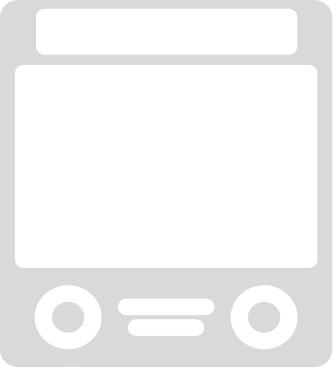
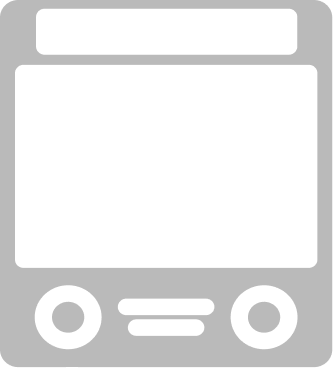
Hoàn thành trang bán v chưa hóa xuat hoa dơn va ve

diff --git a/src/main/resources/css/BanVe_GUI_Items/Cho_BanVe.css b/src/main/resources/css/BanVe_GUI_Items/Cho_BanVe.css
@@ -1,34 +1,28 @@
 .choDaBan{
     -fx-background-color: #FA4032;
-    -fx-text-fill: #fff;
 }
 
 .choDaDat{
     -fx-background-color: #FAB12F;
-    -fx-text-fill: #fff;
 }
-
 
 .choDanhChoChanDaiHon{
     -fx-background-color: #698AFB;
-    -fx-text-fill: #fff;
 }
 
 .choTrong{
-    -fx-background-color: #D9D9D9;
-    -fx-text-fill: #000;
+    -fx-background-color: #A6AEBF;
 }
 
 .choDangChon{
     -fx-background-color: #008906;
-    -fx-text-fill: #fff;
 }
 
 .choDaThemVaoGioVe{
     -fx-background-color: #851DE0;
-    -fx-text-fill: #fff;
 }
 
+/*
 .cho .jfx-button{
     -fx-alignment: center;
     -fx-font-weight: 700;
@@ -38,3 +32,4 @@
     -fx-pref-width: 40;
     -fx-pref-height: 40;
 }
+*/

diff --git a/target/classes/css/BanVe_GUI.css b/target/classes/css/BanVe_GUI.css
@@ -49,12 +49,6 @@
     -fx-background-color: #e8e8e8;
 }
 
-.danhSachCho{
-    -fx-border-color: #000;
-    -fx-border-radius: 5px;
-    -fx-border-width: 0.5px;
-
-}
 
 .buttonOption{
     -fx-background-color: #15B392;

diff --git a/src/main/java/GUI/controllers/BanVe_GUI_Items/Cho_BanVe_Controller.java b/src/main/java/GUI/controllers/BanVe_GUI_Items/Cho_BanVe_Controller.java
@@ -7,7 +7,9 @@ import com.jfoenix.controls.JFXButton;
 import javafx.event.ActionEvent;
 import javafx.fxml.FXML;
 import javafx.fxml.Initializable;
+import javafx.scene.control.Label;
 import javafx.scene.control.Tooltip;
+import javafx.scene.layout.AnchorPane;
 import javafx.util.Duration;
 import utils.CurrencyFormat;
 
@@ -16,7 +18,22 @@ import java.util.ResourceBundle;
 
 public class Cho_BanVe_Controller implements Initializable {
     @FXML
+    private AnchorPane anpTrangThaiCho;
+
+    @FXML
     private JFXButton btnCho;
+
+    @FXML
+    private Label lblGiaCho;
+
+    @FXML
+    private Label lblLoaiCho;
+
+    @FXML
+    private Label lblSoCho;
+
+    @FXML
+    private Label lblTrangThaiCho;
 
     private Cho cho;
     private BanVe_GUI_Controller banVe_GUI_controller;
@@ -31,8 +48,6 @@ public class Cho_BanVe_Controller implements Initializable {
         this.dangChon = dangChon;
     }
 
-    private Tooltip tooltip;
-    private String giaCho;
 
     public boolean isDaThemVaoGio() {
         return daThemVaoGio;
@@ -82,57 +97,54 @@ public class Cho_BanVe_Controller implements Initializable {
     }
 
     public void khoiTao(double doDaiChang){
-        btnCho.getStylesheets().add(getClass().getResource("/css/BanVe_GUI_Items/Cho_BanVe.css").toExternalForm());
-        btnCho.setText(String.valueOf(cho.getSoCho()));
+        anpTrangThaiCho.getStylesheets().add(getClass().getResource("/css/BanVe_GUI_Items/Cho_BanVe.css").toExternalForm());
+        lblSoCho.setText(String.valueOf(cho.getSoCho()));
         chuyenMauMacDinh();
-        tooltip = new Tooltip();
         cho.setGiaCho(cho.tinhGiaCho(doDaiChang));
+        lblGiaCho.setText(CurrencyFormat.currencyFormat(cho.getGiaCho()));
+        lblLoaiCho.setText(cho.getLoaiCho().getTenLoaiCho());
         capNhatTrangThai();
-        btnCho.setTooltip(tooltip);
-        tooltip.setShowDelay(Duration.millis(0)); // Hiển thị ngay lập tức khi hover
-        tooltip.setHideDelay(Duration.millis(0));
     }
 
     public void chuyenMauMacDinh(){
         switch (cho.getTrangThaiCho()){
             case DABAN -> {
-                btnCho.getStyleClass().clear();
-                btnCho.getStyleClass().add("choDaBan");
+                anpTrangThaiCho.getStyleClass().clear();
+                anpTrangThaiCho.getStyleClass().add("choDaBan");
             }
             case DADAT -> {
-                btnCho.getStyleClass().clear();
-                btnCho.getStyleClass().add("choDaDat");
+                anpTrangThaiCho.getStyleClass().clear();
+                anpTrangThaiCho.getStyleClass().add("choDaDat");
             }
             case DANHCHOCHANGDAIHON -> {
-                btnCho.getStyleClass().clear();
-                btnCho.getStyleClass().add("choDanhChoChanDaiHon");
+                anpTrangThaiCho.getStyleClass().clear();
+                anpTrangThaiCho.getStyleClass().add("choDanhChoChanDaiHon");
             }
             case CONTRONG -> {
-                btnCho.getStyleClass().clear();
-                btnCho.getStyleClass().add("choTrong");
+                anpTrangThaiCho.getStyleClass().clear();
+                anpTrangThaiCho.getStyleClass().add("choTrong");
             }
         }
     }
 
     public void chuyenMauDangChon(){
-        btnCho.getStyleClass().clear();
-        btnCho.getStyleClass().add("choDangChon");
+        anpTrangThaiCho.getStyleClass().clear();
+        anpTrangThaiCho.getStyleClass().add("choDangChon");
         dangChon = true;
         capNhatTrangThai();
     }
 
     public void chuyenMauDaThemVaoGioVe(){
-        btnCho.getStyleClass().clear();
-        btnCho.getStyleClass().add("choDaThemVaoGioVe");
+        anpTrangThaiCho.getStyleClass().clear();
+        anpTrangThaiCho.getStyleClass().add("choDaThemVaoGioVe");
         daThemVaoGio = true;
         capNhatTrangThai();
     }
 
     public void capNhatTrangThai(){
         String trangThaiCho = "";
-        giaCho = CurrencyFormat.currencyFormat(cho.getGiaCho());
         if(daThemVaoGio){
-            trangThaiCho = "Đã thêm vào giỏ vé";
+            trangThaiCho = "Đã thêm vào giỏ";
         }else if(dangChon){
             trangThaiCho = "Đang chọn";
         }else{
@@ -151,14 +163,6 @@ public class Cho_BanVe_Controller implements Initializable {
                 }
             }
         }
-
-        tooltip.setStyle(
-                "-fx-font-size: 16px; " +
-                "-fx-background-color: white; " +
-                "-fx-font-weight: normal; " +
-                "-fx-text-fill: black; "
-        );
-
-        tooltip.setText(cho.getLoaiCho().getTenLoaiCho() + "\n" + trangThaiCho + "\n" + giaCho);
+        lblTrangThaiCho.setText(trangThaiCho);
     }
 }

diff --git a/src/main/java/GUI/controllers/BanVe_GUI_Controller.java b/src/main/java/GUI/controllers/BanVe_GUI_Controller.java
@@ -73,6 +73,8 @@ public class BanVe_GUI_Controller implements Initializable {
     @FXML
     private ScrollPane scpDanhSachToaTau;
 
+    @FXML
+    private ScrollPane scpDanhSachCho;
 
     @FXML
     private TextField txtTongTien;
@@ -394,6 +396,13 @@ public class BanVe_GUI_Controller implements Initializable {
             scpDanhSachToaTau.setHvalue(scpDanhSachToaTau.getHvalue() - deltaX * 10 / scpDanhSachToaTau.getContent().getBoundsInLocal().getWidth());
             event.consume();
         });
+
+        scpDanhSachCho.setOnScroll(event -> {
+            double deltaX = event.getDeltaY();
+            scpDanhSachCho.setHvalue(scpDanhSachCho.getHvalue() - deltaX * 10 / scpDanhSachCho.getContent().getBoundsInLocal().getWidth());
+            event.consume();
+        });
+
 
 
         gaTauList = QuanLyChuyenTau_BUS.getDanhSachGaTau();
